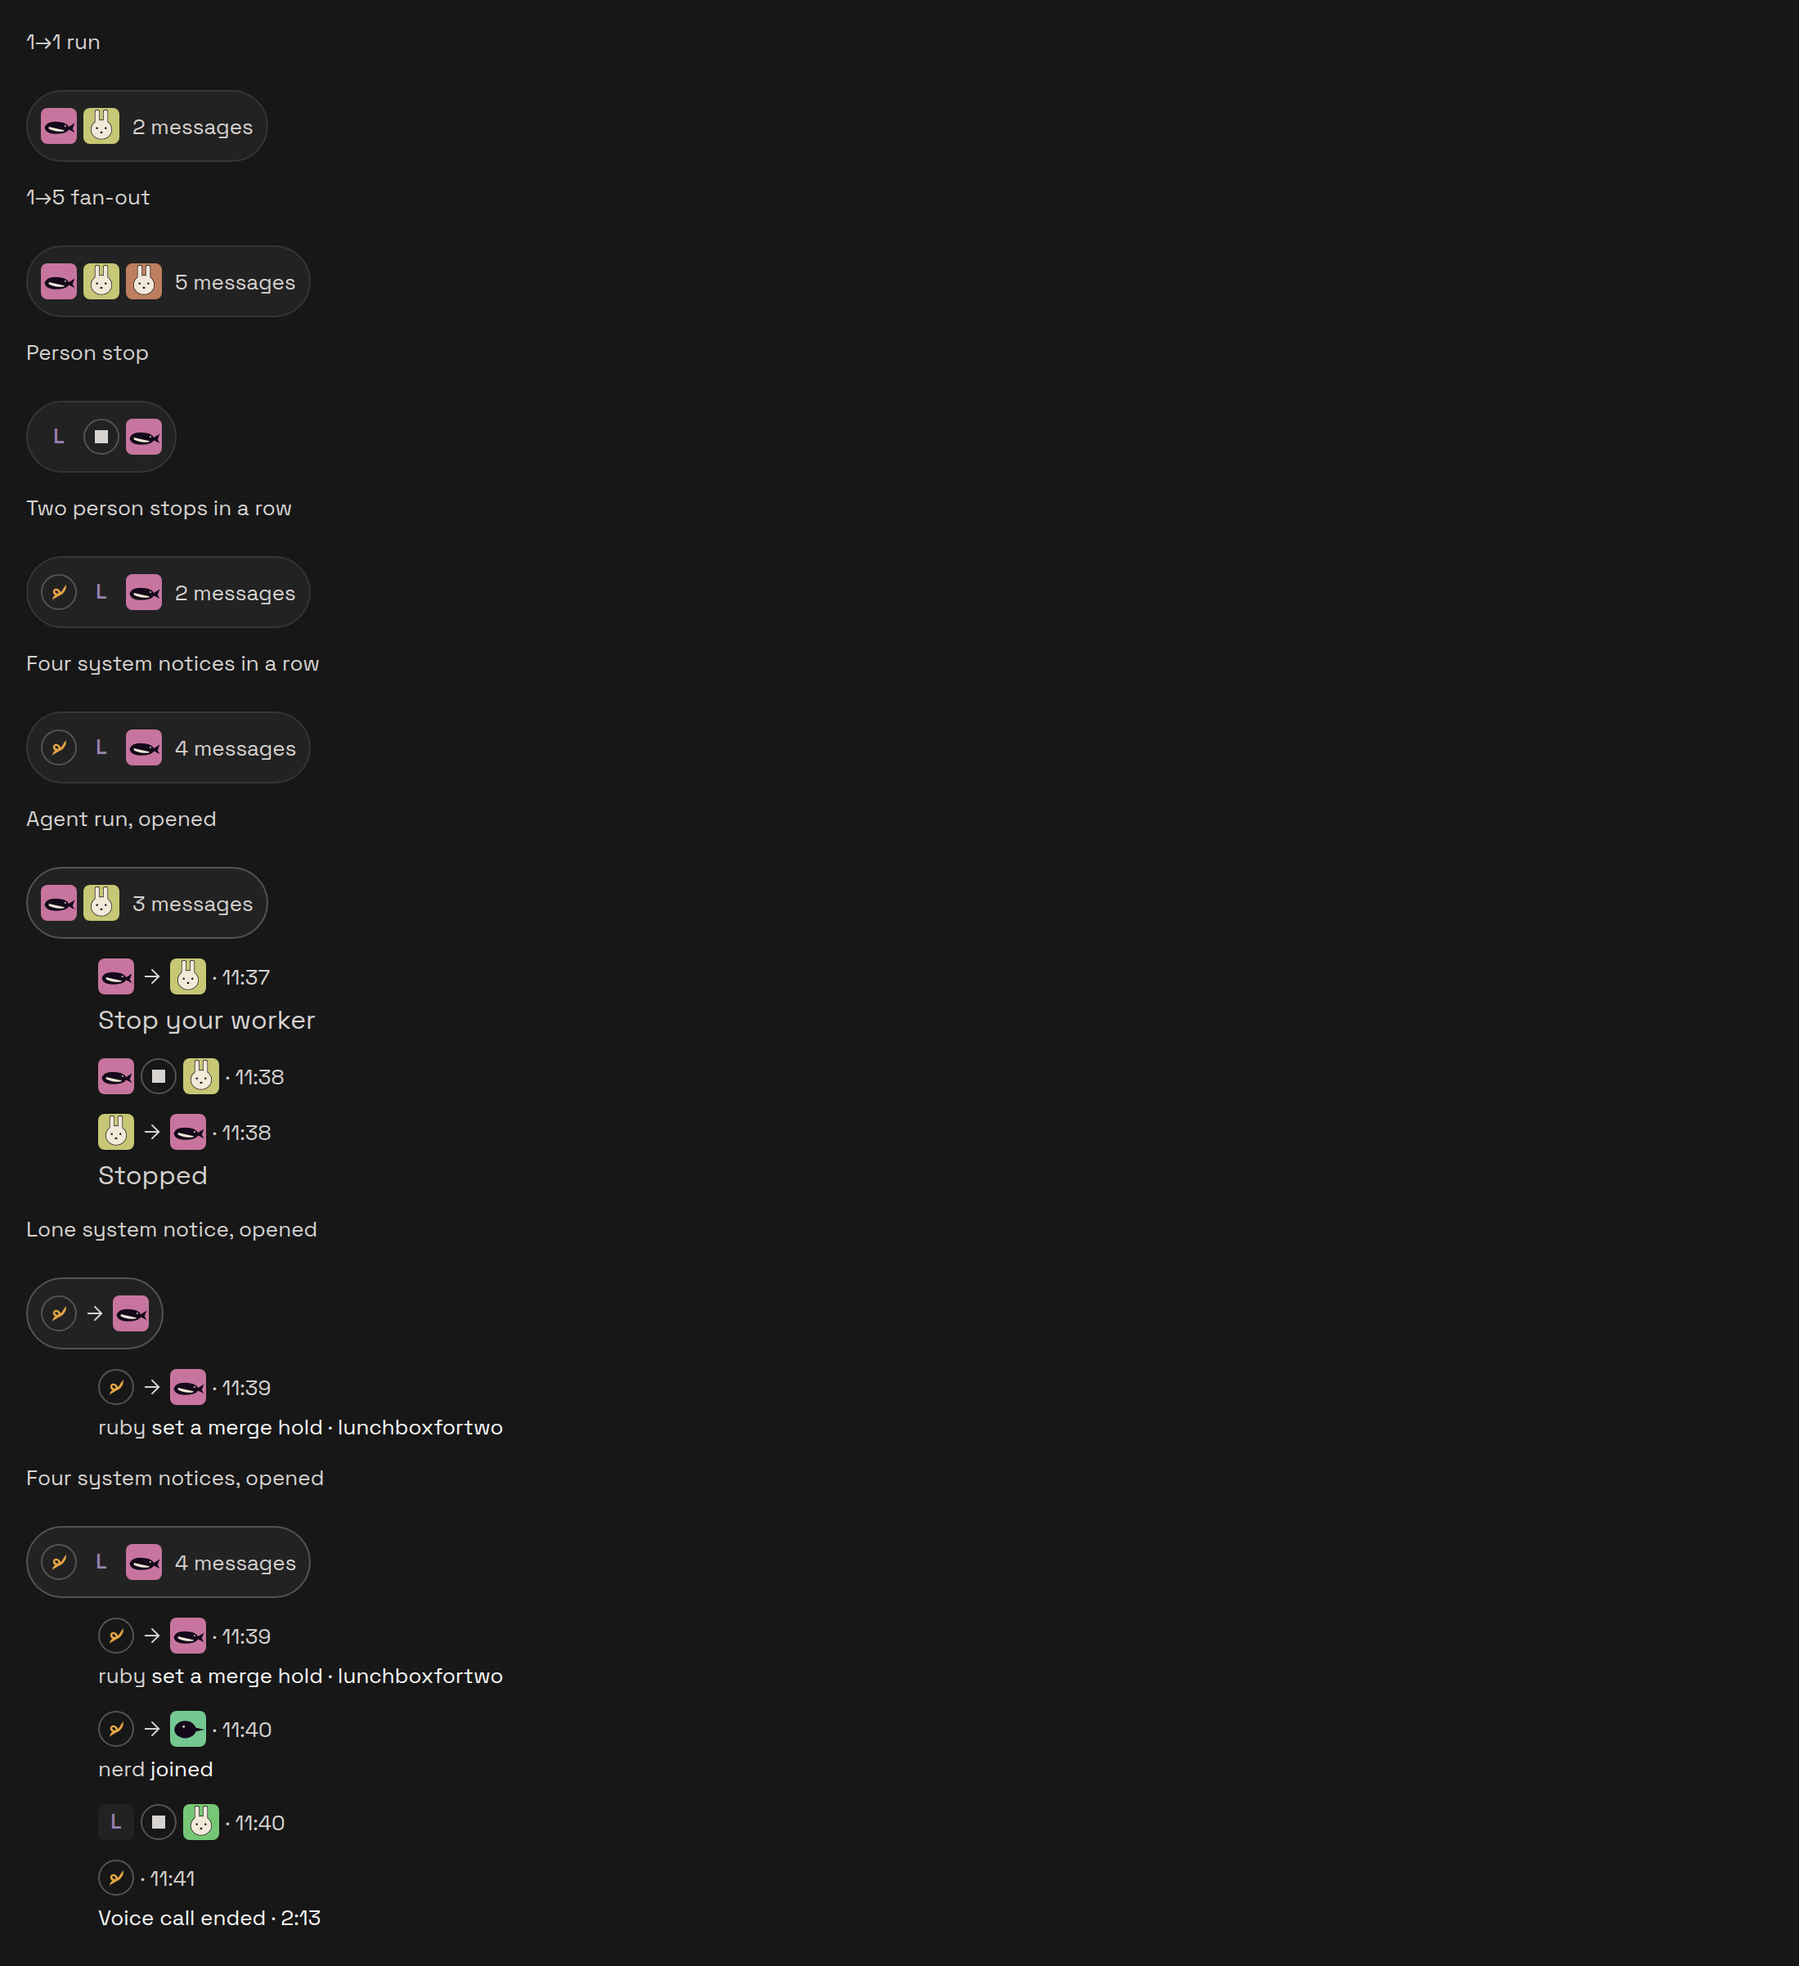
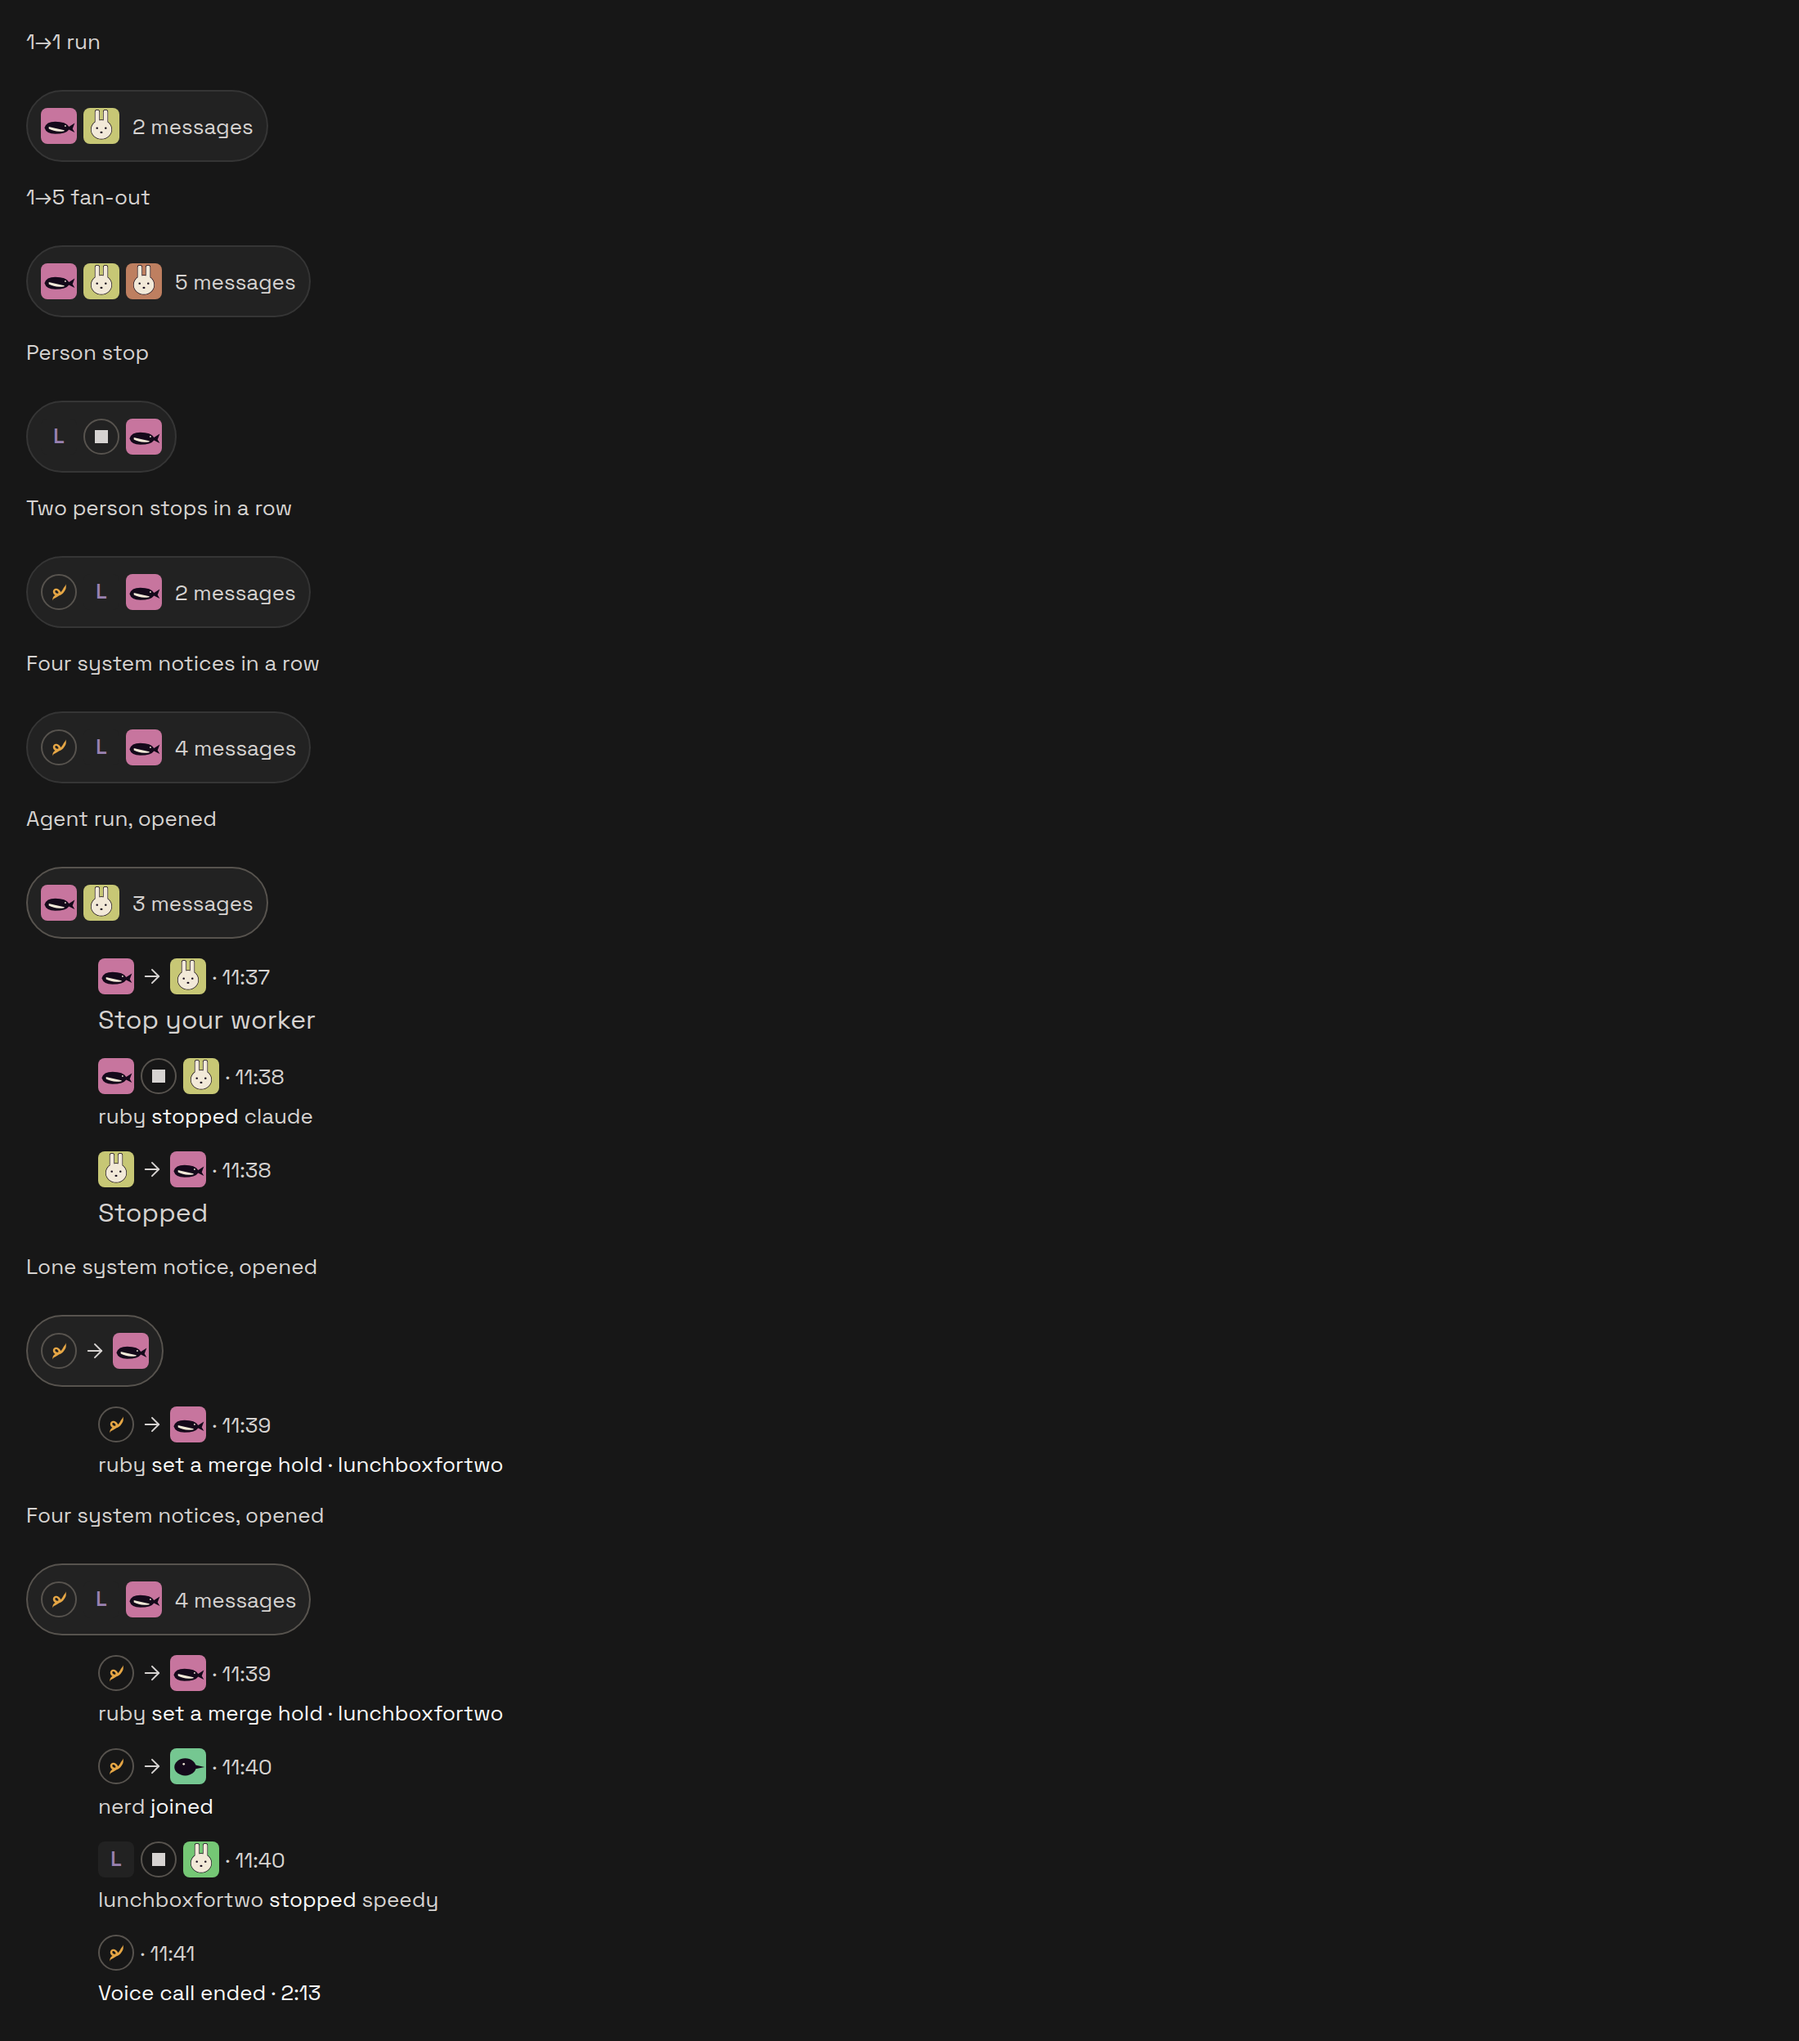
Show a stop's system line when its pill is opened
An opened stop row showed only face, stop glyph, face. It now reads its
existing system line ("@x stopped @y") under the heading, the same as every
other system message. The folded pill still has no text.

Changed region(s): [[0.0, 0.0312, 0.2782, 0.9983], [0.1236, 0.9671, 0.1855, 0.9983], [0.0927, 0.0624, 0.1236, 0.0936]]

diff --git a/apps/mobile/sources/ui/screens/transcript/PillRow.test.tsx b/apps/mobile/sources/ui/screens/transcript/PillRow.test.tsx
@@ -72,7 +72,7 @@ describe('PillRow', () => {
         id: 'e1', system: false, from: ruby, to: claude, time: '09:41', body: null,
         run: [
             { id: 'm1', from: ruby, to: claude, time: '09:36', body: React.createElement('Text', { testID: 'm1-body' }, 'Stop your worker') },
-            { id: 's1', from: ruby, to: claude, time: '09:37', stop: true },
+            { id: 's1', from: ruby, to: claude, time: '09:37', stop: true, body: React.createElement('Text', { testID: 's1-body' }, '@ruby stopped @claude') },
             { id: 'm2', from: claude, to: ruby, time: '09:38', body: React.createElement('Text', { testID: 'm2-body' }, 'Stopped') },
             { id: 'm3', from: ruby, to: jelly, time: '09:39', body: React.createElement('Text', { testID: 'm3-body' }, 'Send timings') },
         ],
@@ -115,7 +115,8 @@ describe('PillRow', () => {
         const stop = entries[1];
         expect(stop.find((node: any) => node.type === 'YStack' && node.props.testID === 'pill-stop-ring')
             .findAll((node: any) => node.props.testID === 'pill-stop-square')).not.toHaveLength(0);
-        expect(text(stop)).toEqual(['· 09:37']);
+        // Opened, a stop reads its system line, the same as every other system message.
+        expect(text(stop)).toEqual(['· 09:37', '@ruby stopped @claude']);
         expect(stop.props['aria-label']).toBe('Ruby stopped Claude');
         act(() => pill().props.onPress());
         expect(tree.root.findAll((node: any) => typeof node.type === 'string' && node.props.testID === 'pill-open')).toHaveLength(0);

diff --git a/apps/mobile/sources/ui/screens/transcript/PillRow.tsx b/apps/mobile/sources/ui/screens/transcript/PillRow.tsx
@@ -158,7 +158,8 @@ function RunList({ run }: { run: readonly PillRunEntry[] }) {
                             <Pair from={entry.from} to={entry.to} stop={entry.stop} />
                             <Copy small quiet>{`· ${entry.time}`}</Copy>
                         </XStack>
-                        {entry.stop ? null : entry.body}
+                        {/* A stop opens to its system line, like every other system message. */}
+                        {entry.body}
                     </YStack>
                 ))}
             </YStack>
